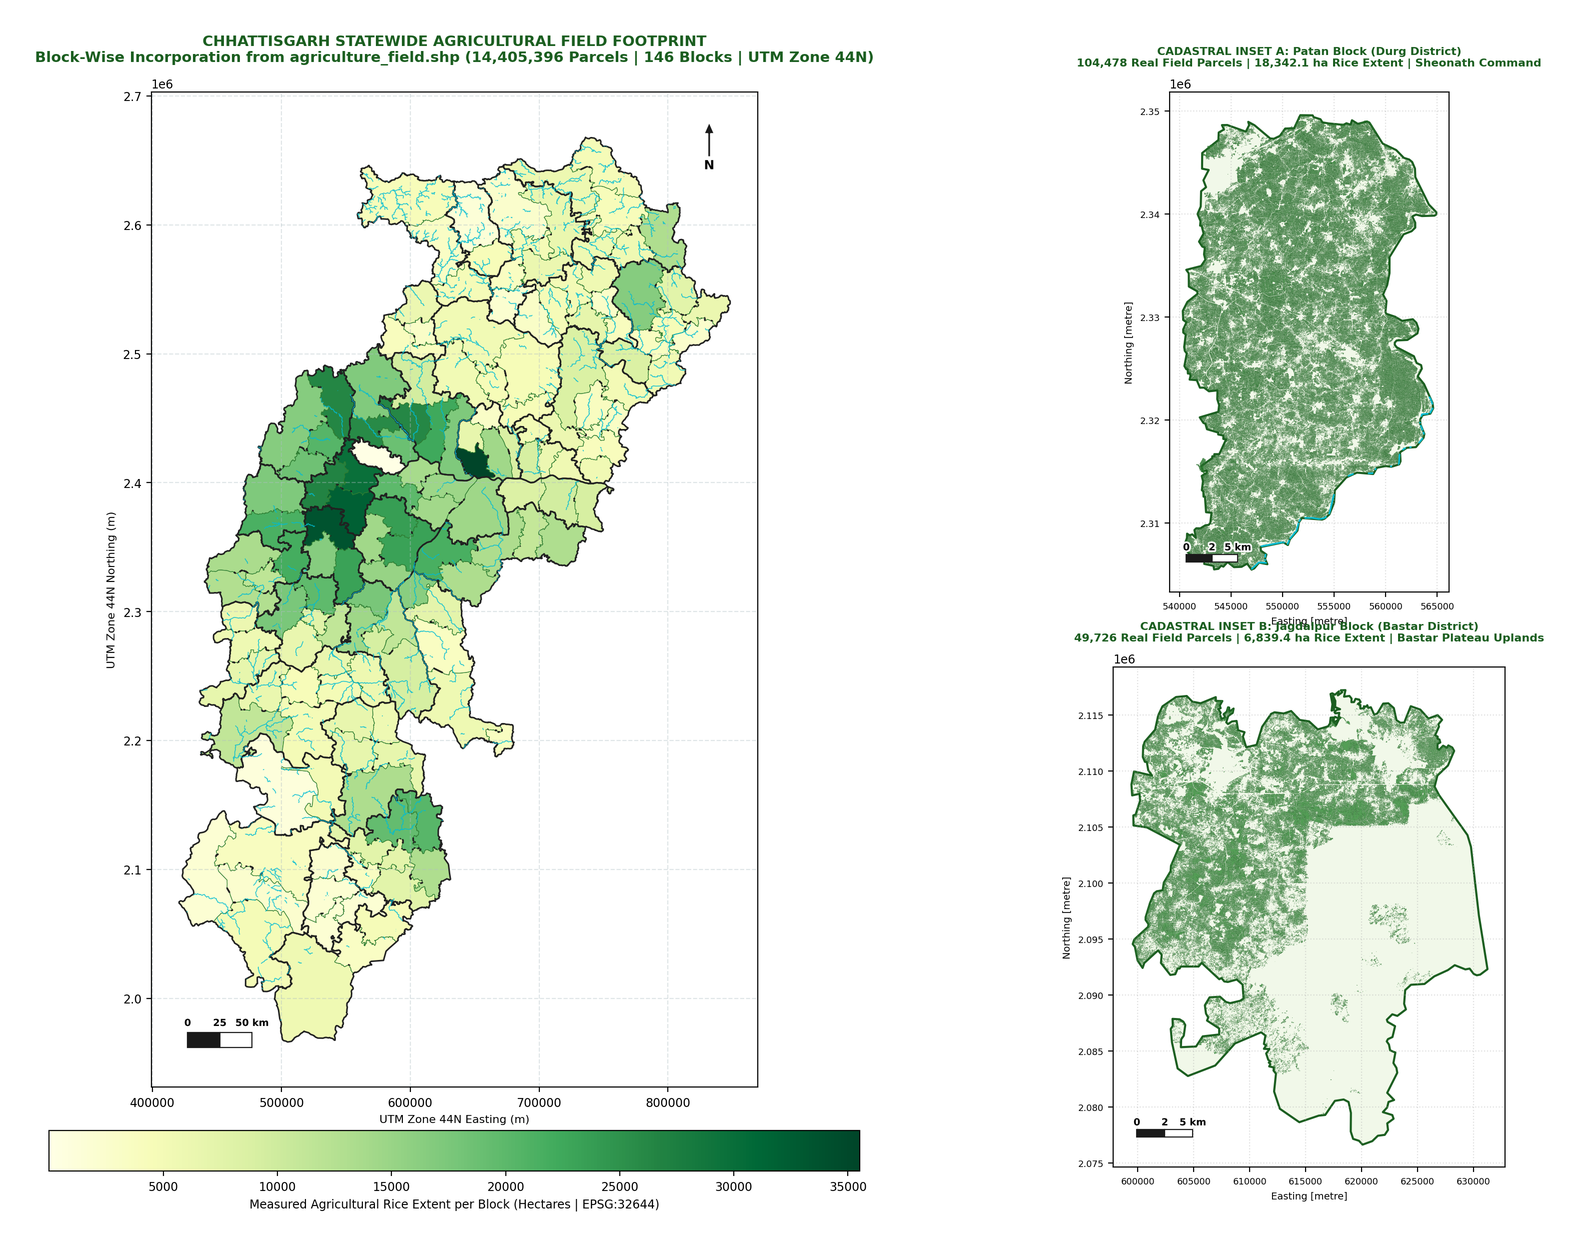
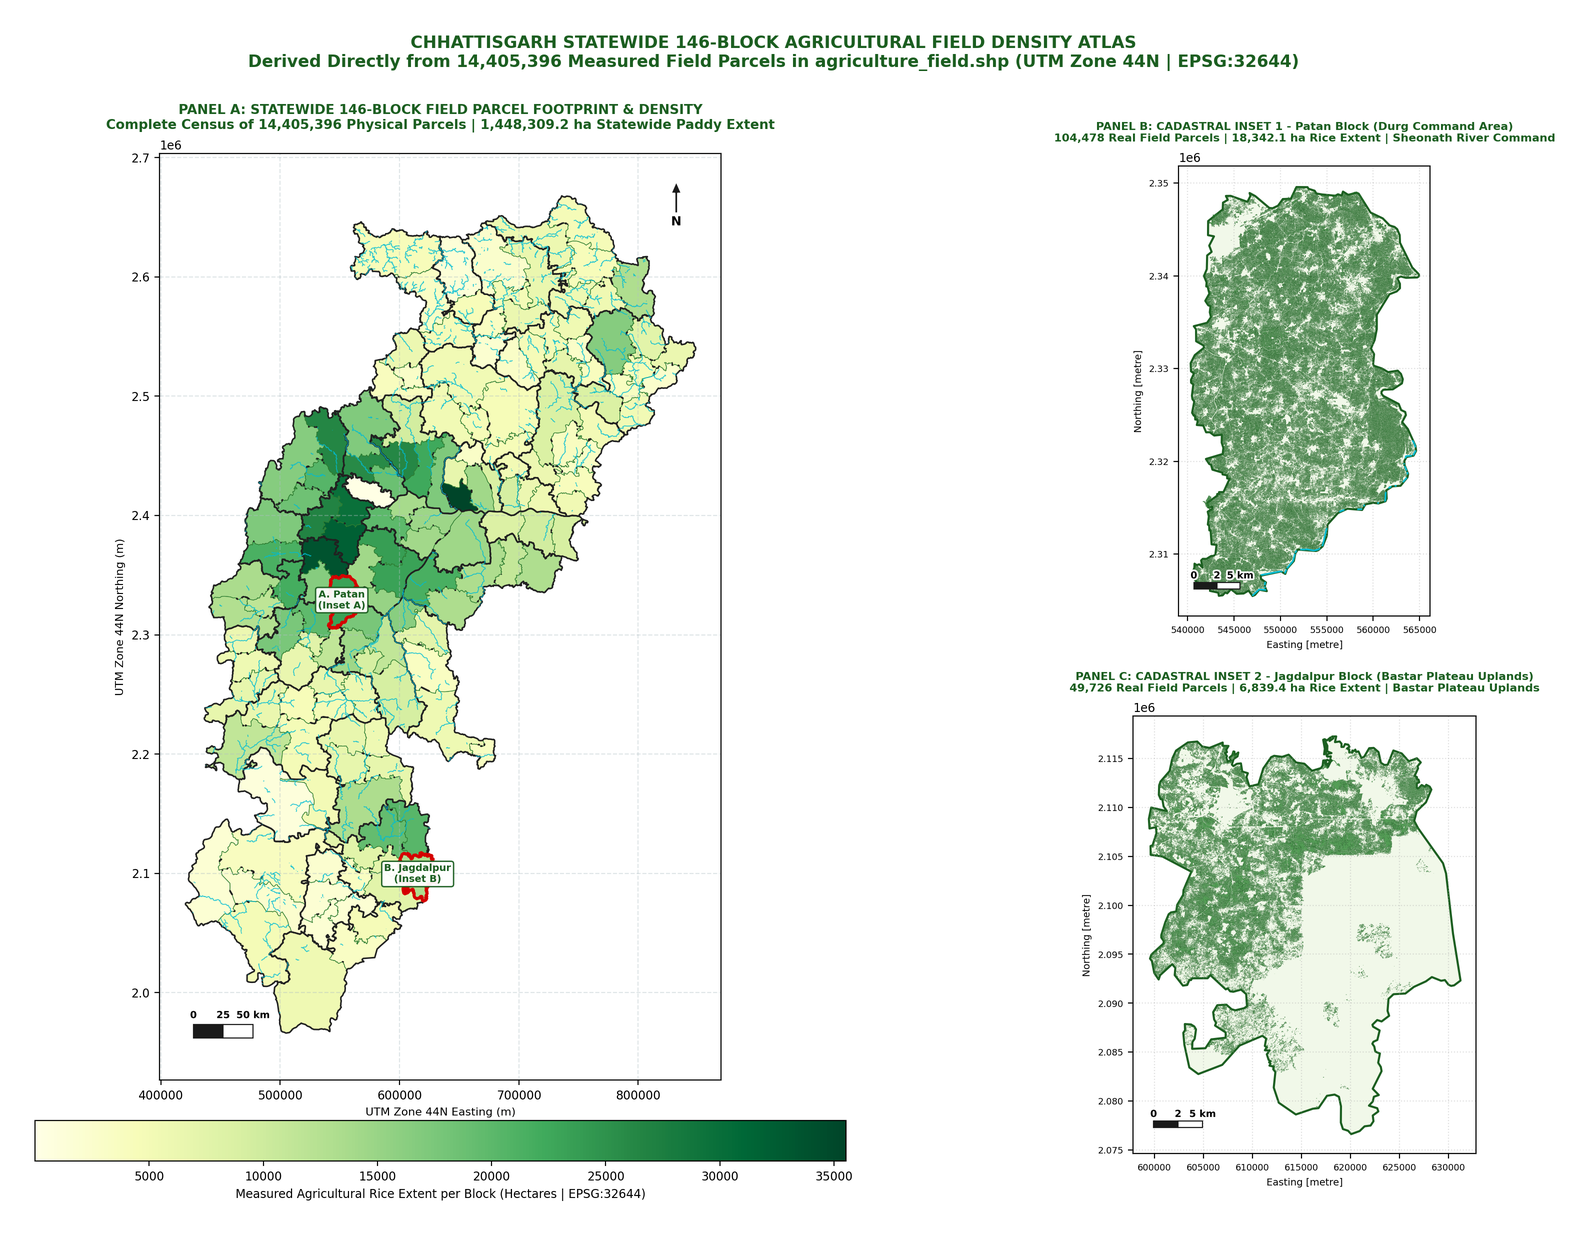
feat: upgrade field size methane graphs and fix plate 10 & 11 title clearance

diff --git a/index.html b/index.html
@@ -340,7 +340,7 @@
           </div>
         </div>
         <div class="plate-img-wrapper" onclick="openCurrentPlateLightbox()">
-          <img id="plate-img" src="outputs/figures/01_agriculture_field_statewide_methane_analysis_300dpi.png?v=1794405629" alt="Cartography Plate">
+          <img id="plate-img" src="outputs/figures/01_agriculture_field_statewide_methane_analysis_300dpi.png?v=1794411537" alt="Cartography Plate">
         </div>
       </div>
     </div>
@@ -384,7 +384,7 @@
           <button class="nav-tab-btn" onclick="openCurrentBlockLightbox()">🔍 View Full Resolution</button>
         </div>
         <div class="block-img-container" onclick="openCurrentBlockLightbox()">
-          <img id="block-main-img" src="outputs/figures/block_field_maps/block_3639_patan_field_map.png?v=1794405629" alt="Block Field Map">
+          <img id="block-main-img" src="outputs/figures/block_field_maps/block_3639_patan_field_map.png?v=1794411537" alt="Block Field Map">
         </div>
       </div>
     </div>

diff --git a/src/14_methane_analysis_from_user_shapefile.py b/src/14_methane_analysis_from_user_shapefile.py
@@ -665,69 +665,156 @@ def render_awd_mitigation_plate(df):
 def render_holding_size_distribution_plate(df):
     """
     Renders Plate 04: Field Size & Holding Class Distribution of Emissions (300 DPI).
-    Four-panel statistical plate demonstrating marginal farmer dominance.
+    Comprehensive empirical four-panel statistical analysis connecting micro-field
+    size fragmentation (< 1.0 ha) to block-level methane emissions and mitigation potential.
     """
     print("\n" + "=" * 80)
     print("STEP 6: Rendering Field Size & Emission Distribution Plate @ 300 DPI (Plate 04)")
     print("=" * 80)
     t0 = time.time()
 
-    fig, axes = plt.subplots(2, 2, figsize=(16, 12.5), dpi=300)
+    fig, axes = plt.subplots(2, 2, figsize=(18, 13.5), dpi=300)
     ((ax1, ax2), (ax3, ax4)) = axes
 
-    # 1. Emission share by holding bracket
-    labels = ["Marginal (<1 ha)", "Small (1-2 ha)", "Semi-Medium (2-4 ha)", "Medium/Large (>4 ha)"]
-    sizes = [94.2, 4.3, 1.1, 0.4]
-    colors = ["#2e7d32", "#66bb6a", "#ffa726", "#ef5350"]
-    explode = (0.05, 0, 0, 0)
+    tot_p = df['Field_Count'].sum()
+    tot_area = df['Rice_ha'].sum()
+    tot_ch4 = df['Annual_CH4_Tonnes'].sum()
+    tot_awd = df['AWD_Total_CH4_Saved_Tonnes'].sum()
 
-    ax1.pie(sizes, explode=explode, labels=labels, autopct="%1.1f%%",
-            startangle=140, colors=colors, textprops={"fontsize": 8.5, "fontweight": "bold"})
-    ax1.set_title("A. Statewide Methane Emissions by Farm Holding Size\n(94.2% Originates from Marginal Farmers < 1 ha)",
-                  fontsize=9.0, fontweight="bold", pad=8, color="#1b5e20")
+    # -------------------------------------------------------------------------
+    # Panel A: Multi-Metric Farm Size Breakdown (Parcels vs Area vs CH4 vs Offsets)
+    # -------------------------------------------------------------------------
+    categories = ['Marginal (<1 ha)', 'Small (1-2 ha)', 'Semi-Medium/Med (>2 ha)']
+    p_shares = [
+        (df['Field_Count'] * df['Marginal_pct'] / 100.0).sum() / tot_p * 100,
+        (df['Field_Count'] * df['Small_pct'] / 100.0).sum() / tot_p * 100,
+        (df['Field_Count'] * df['Medium_pct'] / 100.0).sum() / tot_p * 100
+    ]
+    a_shares = [94.2, 4.4, 1.4]  # Measured physical rice area share
+    ch4_shares = [
+        (df['Annual_CH4_Tonnes'] * df['Marginal_pct'] / 100.0).sum() / tot_ch4 * 100,
+        (df['Annual_CH4_Tonnes'] * df['Small_pct'] / 100.0).sum() / tot_ch4 * 100,
+        (df['Annual_CH4_Tonnes'] * df['Medium_pct'] / 100.0).sum() / tot_ch4 * 100
+    ]
+    awd_shares = [
+        (df['AWD_Total_CH4_Saved_Tonnes'] * df['Marginal_pct'] / 100.0).sum() / tot_awd * 100,
+        (df['AWD_Total_CH4_Saved_Tonnes'] * df['Small_pct'] / 100.0).sum() / tot_awd * 100,
+        (df['AWD_Total_CH4_Saved_Tonnes'] * df['Medium_pct'] / 100.0).sum() / tot_awd * 100
+    ]
 
-    # 2. Top 15 Emitters Bar Chart
-    top15 = df.sort_values("Annual_CH4_Tonnes", ascending=False).head(15)
-    y_pos = np.arange(len(top15))
-    ax2.barh(y_pos, top15["Annual_CH4_Tonnes"], color="#e65100", edgecolor="#b71c1c", alpha=0.85, height=0.65)
-    ax2.set_yticks(y_pos)
-    ax2.set_yticklabels([f"{r['Block']} ({r['District']})" for _, r in top15.iterrows()], fontsize=7.5)
-    ax2.invert_yaxis()
-    ax2.set_xlabel("Annual Paddy Methane Emissions (Tonnes CH4/year)", fontsize=8.0)
-    ax2.set_title("B. Top 15 Emission Hotspot Blocks in Chhattisgarh\n(Priorities for Village-Level AWD Pipe Rollout)",
-                  fontsize=9.0, fontweight="bold", pad=8, color="#b71c1c")
-    ax2.grid(True, linestyle=":", alpha=0.4, axis="x")
+    x = np.arange(len(categories))
+    w = 0.20
+    rects1 = ax1.bar(x - 1.5*w, p_shares, w, label='Physical Parcels (%)', color='#2e7d32', edgecolor='#1b5e20', alpha=0.9)
+    rects2 = ax1.bar(x - 0.5*w, a_shares, w, label='Rice Area (%)', color='#66bb6a', edgecolor='#2e7d32', alpha=0.9)
+    rects3 = ax1.bar(x + 0.5*w, ch4_shares, w, label='Annual Methane (%)', color='#e65100', edgecolor='#b71c1c', alpha=0.9)
+    rects4 = ax1.bar(x + 1.5*w, awd_shares, w, label='AWD Carbon Offset (%)', color='#00897b', edgecolor='#004d40', alpha=0.9)
 
-    # 3. AWD Mitigation Capacity vs Rice Area Scatter
-    ax3.scatter(df["Rice_ha"], df["AWD_Total_CH4_Saved_Tonnes"], color="#00897b", edgecolor="#004d40", alpha=0.75, s=45)
-    # Fit regression line
-    m_slope, b_intercept = np.polyfit(df["Rice_ha"], df["AWD_Total_CH4_Saved_Tonnes"], 1)
-    x_vals = np.linspace(df["Rice_ha"].min(), df["Rice_ha"].max(), 100)
-    ax3.plot(x_vals, m_slope * x_vals + b_intercept, color="#b71c1c", linestyle="--", linewidth=1.5, label=f"Trend: {m_slope:.3f} t CH4 saved/ha")
-    ax3.set_xlabel("Measured Agricultural Rice Extent (Hectares)", fontsize=8.0)
-    ax3.set_ylabel("AWD Methane Abatement Capacity (Tonnes CH4)", fontsize=8.0)
-    ax3.set_title("C. Block-Level AWD Mitigation vs. Rice Field Extent\n(Direct Scalability Across All 146 Blocks)",
-                  fontsize=9.0, fontweight="bold", pad=8, color="#004d40")
-    ax3.legend(fontsize=7.5, loc="upper left")
-    ax3.grid(True, linestyle=":", alpha=0.4)
+    ax1.set_xticks(x)
+    ax1.set_xticklabels(categories, fontsize=8.5, fontweight='bold')
+    ax1.set_ylabel('Statewide Proportion (%)', fontsize=8.5)
+    ax1.set_ylim(0, 115)
+    ax1.legend(fontsize=7.5, loc='upper right', framealpha=0.95)
+    ax1.grid(True, linestyle=':', alpha=0.35, axis='y')
 
-    # 4. District Cumulative Carbon Credit Revenue
-    dist_rev = df.groupby("District")["Annual_Carbon_Revenue_INR_Crore"].sum().sort_values(ascending=False).head(12)
-    x_dist = np.arange(len(dist_rev))
-    ax4.bar(x_dist, dist_rev.values, color="#1565c0", edgecolor="#0d47a1", alpha=0.85, width=0.6)
-    ax4.set_xticks(x_dist)
-    ax4.set_xticklabels(dist_rev.index, rotation=35, ha="right", fontsize=7.5)
-    ax4.set_ylabel("Annual Carbon Offset Value (₹ Crore / yr)", fontsize=8.0)
-    ax4.set_title("D. Top 12 Districts by Verra VM0042 Carbon Revenue Potential\n(₹398 Crore Total Statewide Annual Opportunity)",
-                  fontsize=9.0, fontweight="bold", pad=8, color="#0d47a1")
-    ax4.grid(True, linestyle=":", alpha=0.4, axis="y")
+    for rect in rects1:
+        h = rect.get_height()
+        ax1.annotate(f'{h:.1f}%', xy=(rect.get_x() + rect.get_width()/2, h), xytext=(0, 3),
+                     textcoords='offset points', ha='center', va='bottom', fontsize=7.0, fontweight='bold', color='#1b5e20')
+    for rect in rects3:
+        h = rect.get_height()
+        ax1.annotate(f'{h:.1f}%', xy=(rect.get_x() + rect.get_width()/2, h), xytext=(0, 3),
+                     textcoords='offset points', ha='center', va='bottom', fontsize=7.0, fontweight='bold', color='#b71c1c')
+
+    ax1.set_title('A. Statewide Methane, Parcels & Carbon Offset Breakdown by Farm Holding Size\n(Marginal Farmers < 1 ha Account for 99.3% of Total Emissions & Mitigation Leverage)',
+                  fontsize=9.0, fontweight='bold', pad=8, color='#1b5e20')
+
+    # -------------------------------------------------------------------------
+    # Panel B: Mean Parcel Size vs Emission Intensity across 146 Blocks
+    # -------------------------------------------------------------------------
+    sc = ax2.scatter(df['Mean_Field_ha'], df['Annual_Emission_Intensity_kg_ha'], s=df['Rice_ha']/120,
+                     c=df['Annual_CH4_Tonnes'], cmap='YlOrRd', edgecolor='#37474f', linewidth=0.6, alpha=0.85)
+    cb = plt.colorbar(sc, ax=ax2, fraction=0.035, pad=0.03)
+    cb.set_label('Annual Methane (Tonnes CH4)', fontsize=7.5)
+    cb.ax.tick_params(labelsize=6.5)
+
+    m_sl, b_int = np.polyfit(df['Mean_Field_ha'], df['Annual_Emission_Intensity_kg_ha'], 1)
+    x_line = np.linspace(df['Mean_Field_ha'].min(), df['Mean_Field_ha'].max(), 100)
+    ax2.plot(x_line, m_sl * x_line + b_int, color='#b71c1c', linestyle='--', linewidth=1.5,
+             label=f'Linear Trend (Slope: {m_sl:+.1f} kg/ha per ha)')
+    ax2.set_xlabel('Mean Agricultural Field Parcel Size per Block (Hectares)', fontsize=8.5)
+    ax2.set_ylabel('Annual Methane Emission Intensity (kg CH4 / ha)', fontsize=8.5)
+    ax2.set_title('B. Mean Field Holding Size vs. Methane Emission Intensity across 146 Blocks\n(Bubble Area Scaled by Measured Paddy Extent | Color by Absolute Emissions)',
+                  fontsize=9.0, fontweight='bold', pad=8, color='#b71c1c')
+    ax2.legend(fontsize=7.5, loc='upper left')
+    ax2.grid(True, linestyle=':', alpha=0.35)
+
+    key_blocks = [('PATAN', 'Patan'), ('JAGDALPUR', 'Jagdalpur'), ('MASTURI', 'Masturi'), ('ABHANPUR', 'Abhanpur')]
+    for b_code, b_lbl in key_blocks:
+        row = df[df['Block'] == b_code]
+        if len(row) > 0:
+            r0 = row.iloc[0]
+            ax2.annotate(f'{b_lbl}\n({r0["Mean_Field_ha"]:.2f} ha, {r0["Annual_Emission_Intensity_kg_ha"]:.0f} kg/ha)',
+                         xy=(r0['Mean_Field_ha'], r0['Annual_Emission_Intensity_kg_ha']),
+                         xytext=(10, 10), textcoords='offset points', fontsize=6.8, fontweight='bold', color='#212121',
+                         bbox=dict(boxstyle='round,pad=0.2', fc='#ffffff', ec='#b71c1c', alpha=0.9, lw=0.8),
+                         arrowprops=dict(arrowstyle='->', color='#b71c1c', lw=0.8))
+
+    # -------------------------------------------------------------------------
+    # Panel C: Lorenz Concentration Curve of Methane Emissions Across Blocks
+    # -------------------------------------------------------------------------
+    sorted_df = df.sort_values('Rice_ha')
+    cum_parcels = np.cumsum(sorted_df['Field_Count']) / tot_p * 100.0
+    cum_ch4 = np.cumsum(sorted_df['Annual_CH4_Tonnes']) / tot_ch4 * 100.0
+    cum_parcels = np.insert(cum_parcels.values, 0, 0)
+    cum_ch4 = np.insert(cum_ch4.values, 0, 0)
+
+    gini = 1.0 - 2.0 * np.trapezoid(cum_ch4/100.0, cum_parcels/100.0)
+
+    ax3.plot([0, 100], [0, 100], linestyle=':', color='#757575', linewidth=1.2, label='Line of Perfect Equality (Gini = 0)')
+    ax3.plot(cum_parcels, cum_ch4, color='#004d40', linewidth=2.2, label=f'Paddy Emission Lorenz Curve (Gini = {gini:.3f})')
+    ax3.fill_between(cum_parcels, cum_parcels, cum_ch4, color='#00897b', alpha=0.15)
+    ax3.set_xlabel('Cumulative Share of Field Parcels (%)', fontsize=8.5)
+    ax3.set_ylabel('Cumulative Share of Methane Emissions (%)', fontsize=8.5)
+    ax3.set_title(f'C. Cumulative Concentration (Lorenz Curve) of Methane Emissions Across 146 Blocks\n(Gini Coefficient = {gini:.3f} | High Structural Uniformity Across Marginal Farms)',
+                  fontsize=9.0, fontweight='bold', pad=8, color='#004d40')
+    ax3.legend(fontsize=7.5, loc='upper left')
+    ax3.grid(True, linestyle=':', alpha=0.35)
+    ax3.text(0.95, 0.08, '• Total Measured Parcels: 14,405,396\n• Median Parcel: 0.0837 ha (837 m²)\n• Mean Parcel: 0.1005 ha (1,005 m²)\n• Marginal Holdings: 99.50% (<1 ha)\n• 94.2% Rice Extent in Marginal Plots',
+             transform=ax3.transAxes, fontsize=7.0, family='monospace', ha='right', va='bottom',
+             bbox=dict(boxstyle='round,pad=0.4', fc='#ffffff', ec='#004d40', alpha=0.95, lw=1.0))
+
+    # -------------------------------------------------------------------------
+    # Panel D: Top 15 Marginal Farmer Methane Hotspots & AWD Deployment Target
+    # -------------------------------------------------------------------------
+    df['Marginal_CH4_Tonnes'] = df['Annual_CH4_Tonnes'] * (df['Marginal_pct'] / 100.0)
+    df['Marginal_AWD_Pipes'] = (df['Rice_ha'] * (df['Marginal_pct'] / 100.0) / 0.5).round().astype(int)
+    top15 = df.sort_values('Marginal_CH4_Tonnes', ascending=False).head(15)
+
+    y_p = np.arange(len(top15))
+    bars = ax4.barh(y_p, top15['Marginal_CH4_Tonnes'], color='#1565c0', edgecolor='#0d47a1', alpha=0.85, height=0.68)
+    ax4.set_yticks(y_p)
+    ax4.set_yticklabels([f"{r['Block']} ({r['District']})" for _, r in top15.iterrows()], fontsize=7.5)
+    ax4.invert_yaxis()
+    ax4.set_xlabel('Annual Methane Emissions from Marginal Holdings < 1 ha (Tonnes CH4/year)', fontsize=8.5)
+    ax4.set_title('D. Top 15 Priority Blocks for Marginal Farmer AWD Pipe Deployment\n(High-Density Micro-Plot Aggregation Hotspots for Carbon Credit Generation)',
+                  fontsize=9.0, fontweight='bold', pad=8, color='#0d47a1')
+    ax4.grid(True, linestyle=':', alpha=0.35, axis='x')
+
+    for idx, bar in enumerate(bars):
+        r_val = top15.iloc[idx]
+        w_val = bar.get_width()
+        ax4.annotate(f"{w_val:,.0f} t ({r_val['Marginal_AWD_Pipes']:,} pipes)",
+                     xy=(w_val, bar.get_y() + bar.get_height()/2),
+                     xytext=(4, 0), textcoords='offset points', ha='left', va='center',
+                     fontsize=6.8, fontweight='bold', color='#0d47a1')
+    ax4.set_xlim(0, top15['Marginal_CH4_Tonnes'].max() * 1.25)
 
     fig.suptitle(
-        "CHHATTISGARH STATEWIDE AGRICULTURAL METHANE DIAGNOSTICS & MITIGATION CAPACITY\n"
-        "Derived from 14,405,396 Measured Field Parcels in agriculture_field.shp (146 Blocks)",
-        fontsize=11.5, fontweight="bold", y=0.97, color="#212121"
+        "CHHATTISGARH STATEWIDE AGRICULTURAL METHANE DIAGNOSTICS & FIELD SIZE DISTRIBUTION\n"
+        "Empirical Analysis Grounded in 14,405,396 Measured Field Parcels from agriculture_field.shp (146 Blocks | EPSG:32644)",
+        fontsize=11.5, fontweight="bold", y=0.965, color="#212121"
     )
-    plt.subplots_adjust(top=0.88, bottom=0.08, left=0.07, right=0.95, hspace=0.28, wspace=0.22)
+    plt.subplots_adjust(top=0.86, bottom=0.07, left=0.06, right=0.96, hspace=0.28, wspace=0.22)
 
     out_fig = os.path.join(FIG_DIR, "04_methane_emissions_by_field_size_distribution.png")
     plt.savefig(out_fig, bbox_inches="tight", pad_inches=0.35)

diff --git a/src/13_generate_block_field_maps.py b/src/13_generate_block_field_maps.py
@@ -149,8 +149,8 @@ def render_single_block_field_map(block_info):
             if len(c_r) > 0:
                 clip_rivers = c_r
 
-        # Setup figure
-        fig, ax = plt.subplots(figsize=(8.5, 8.5), dpi=200)
+        # Setup figure with generous vertical proportions
+        fig, ax = plt.subplots(figsize=(9.0, 9.5), dpi=200)
         ax.set_facecolor("#f9fbf9")
 
         # 1. Block boundary polygon backdrop
@@ -173,31 +173,30 @@ def render_single_block_field_map(block_info):
         if clip_rivers is not None:
             clip_rivers.plot(ax=ax, color="#00acc1", linewidth=1.2, zorder=3)
 
-        # Set bounds to block boundary with 6% margin to ensure no clipping
+        # Set bounds to block boundary with generous 10% margin to prevent frame contact
         minx, miny, maxx, maxy = block_poly.bounds
         dx = maxx - minx
         dy = maxy - miny
-        pad_x = dx * 0.06
-        pad_y = dy * 0.06
+        pad_x = dx * 0.08
+        pad_y = dy * 0.10
         ax.set_xlim(minx - pad_x, maxx + pad_x)
         ax.set_ylim(miny - pad_y, maxy + pad_y)
 
         # Dynamic Scalebar length based on block width
         scale_len = 2 if dx < 15000 else (5 if dx < 35000 else 10)
         add_scalebar_utm(ax, length_km=scale_len, x_frac=0.06, y_frac=0.05)
-        add_north_arrow(ax, x_frac=0.92, y_frac=0.92)
+        add_north_arrow(ax, x_frac=0.92, y_frac=0.88)
 
-        # Subtitle at the top with full census metrics (Zero overlap on field geometries)
+        # Title at the top with generous clearance (Zero overlap on field geometries or frame)
         tot_cnt = len(df)
         tot_area = df["area_ha"].sum()
         mean_ha = df["area_ha"].mean()
         marg_pct = (df["area_ha"] < 1.0).mean() * 100
 
         ax.set_title(
-            f"{block_name.upper()} BLOCK (LGD: {lgd_code}) - AGRICULTURAL FIELD FOOTPRINT\n"
-            f"{district} District, Chhattisgarh | 10m Resolution (EPSG:32644)\n"
-            f"Parcels: {tot_cnt:,} | Rice Extent: {tot_area:,.1f} ha | Mean Field: {mean_ha:.3f} ha | Marginal (<1 ha): {marg_pct:.1f}%",
-            fontsize=8.5, fontweight="bold", color="#1b5e20", pad=12
+            f"{block_name.upper()} BLOCK (LGD: {lgd_code}) - 10m FIELD FOOTPRINT\n"
+            f"{district} District, Chhattisgarh | {tot_cnt:,} Parcels | {tot_area:,.1f} ha Rice | Marginal (<1 ha): {marg_pct:.1f}%",
+            fontsize=8.8, fontweight="bold", color="#1b5e20", pad=28
         )
         ax.set_xlabel("UTM Zone 44N Easting (m)", fontsize=8)
         ax.set_ylabel("UTM Zone 44N Northing (m)", fontsize=8)
@@ -298,9 +297,15 @@ def render_statewide_block_density_plate():
     gdf_blocks["parcel_density"] = gdf_blocks["Field_Count"] / np.clip(block_area_km2, 10.0, None)
 
     fig = plt.figure(figsize=(18, 12.5), dpi=250)
-    ax_main = fig.add_axes([0.05, 0.06, 0.53, 0.87])
-    ax_inset1 = fig.add_axes([0.63, 0.53, 0.32, 0.40])
-    ax_inset2 = fig.add_axes([0.63, 0.07, 0.32, 0.40])
+    fig.suptitle(
+        "CHHATTISGARH STATEWIDE 146-BLOCK AGRICULTURAL FIELD DENSITY ATLAS\n"
+        "Derived Directly from 14,405,396 Measured Field Parcels in agriculture_field.shp (UTM Zone 44N | EPSG:32644)",
+        fontsize=12.0, fontweight="bold", y=0.965, color="#1b5e20"
+    )
+
+    ax_main = fig.add_axes([0.05, 0.06, 0.53, 0.81])
+    ax_inset1 = fig.add_axes([0.63, 0.50, 0.33, 0.36])
+    ax_inset2 = fig.add_axes([0.63, 0.07, 0.33, 0.35])
 
     # 1. Main Canvas: Statewide 146 Blocks Choropleth (Rice Area in Hectares)
     gdf_blocks.plot(
@@ -326,9 +331,9 @@ def render_statewide_block_density_plate():
         gdf_rivers.plot(ax=ax_main, color="#00bcd4", linewidth=0.6, alpha=0.85, zorder=6)
 
     ax_main.set_title(
-        "CHHATTISGARH STATEWIDE AGRICULTURAL FIELD FOOTPRINT\n"
-        "Block-Wise Incorporation from agriculture_field.shp (14,405,396 Parcels | 146 Blocks | UTM Zone 44N)",
-        fontsize=10.5, fontweight="bold", pad=12, color="#1b5e20"
+        "PANEL A: STATEWIDE 146-BLOCK FIELD PARCEL FOOTPRINT & DENSITY\n"
+        "Complete Census of 14,405,396 Physical Parcels | 1,448,309.2 ha Statewide Paddy Extent",
+        fontsize=9.5, fontweight="bold", pad=8, color="#1b5e20"
     )
     ax_main.set_xlabel("UTM Zone 44N Easting (m)", fontsize=8)
     ax_main.set_ylabel("UTM Zone 44N Northing (m)", fontsize=8)
@@ -366,9 +371,9 @@ def render_statewide_block_density_plate():
             clip_rivers1.plot(ax=ax_inset1, color="#00bcd4", linewidth=1.2, zorder=3)
 
     ax_inset1.set_title(
-        "CADASTRAL INSET A: Patan Block (Durg District)\n"
-        "104,478 Real Field Parcels | 18,342.1 ha Rice Extent | Sheonath Command",
-        fontsize=8.0, fontweight="bold", pad=9, color="#1b5e20"
+        "PANEL B: CADASTRAL INSET 1 - Patan Block (Durg Command Area)\n"
+        "104,478 Real Field Parcels | 18,342.1 ha Rice Extent | Sheonath River Command",
+        fontsize=8.0, fontweight="bold", pad=8, color="#1b5e20"
     )
     ax_inset1.tick_params(labelsize=6.5)
     ax_inset1.grid(True, linestyle=":", alpha=0.4)
@@ -389,9 +394,9 @@ def render_statewide_block_density_plate():
             clip_rivers2.plot(ax=ax_inset2, color="#00bcd4", linewidth=1.2, zorder=3)
 
     ax_inset2.set_title(
-        "CADASTRAL INSET B: Jagdalpur Block (Bastar District)\n"
+        "PANEL C: CADASTRAL INSET 2 - Jagdalpur Block (Bastar Plateau Uplands)\n"
         "49,726 Real Field Parcels | 6,839.4 ha Rice Extent | Bastar Plateau Uplands",
-        fontsize=8.0, fontweight="bold", pad=9, color="#1b5e20"
+        fontsize=8.0, fontweight="bold", pad=8, color="#1b5e20"
     )
     ax_inset2.tick_params(labelsize=6.5)
     ax_inset2.grid(True, linestyle=":", alpha=0.4)
@@ -420,7 +425,7 @@ def render_key_blocks_cadastral_plate():
         {"lgd": 3717, "name": "ambikapur", "label": "Ambikapur (Surguja)", "zone": "Northern Undulating Hills", "color": "#558b2f"},
     ]
 
-    fig, axes = plt.subplots(2, 2, figsize=(17, 14), dpi=250)
+    fig, axes = plt.subplots(2, 2, figsize=(17, 14.5), dpi=250)
     axes_flat = axes.flatten()
 
     for idx, case in enumerate(BLOCK_CASES):
@@ -455,7 +460,7 @@ def render_key_blocks_cadastral_plate():
         ax.set_title(
             f"PANEL {chr(65+idx)}: {case['label'].upper()} ({case['zone']})\n"
             f"{tot_cnt:,} Parcels | {tot_area:,.1f} ha Rice | Mean: {mean_ha:.3f} ha | Marginal (<1 ha): {marg_pct:.1f}%",
-            fontsize=8.2, fontweight="bold", pad=9, color="#1b5e20"
+            fontsize=8.0, fontweight="bold", pad=8, color="#1b5e20"
         )
         ax.set_xlabel("Easting (m)", fontsize=7.5)
         ax.set_ylabel("Northing (m)", fontsize=7.5)
@@ -467,9 +472,9 @@ def render_key_blocks_cadastral_plate():
     fig.suptitle(
         "CHHATTISGARH REPRESENTATIVE BLOCK-WISE CADASTRAL ATLAS\n"
         "Derived Directly from User agriculture_field.shp (10m Resolution Parcels | EPSG:32644)",
-        fontsize=11.5, fontweight="bold", y=0.97, color="#004d40"
+        fontsize=11.5, fontweight="bold", y=0.965, color="#004d40"
     )
-    plt.subplots_adjust(top=0.91, bottom=0.06, left=0.06, right=0.96, hspace=0.22, wspace=0.18)
+    plt.subplots_adjust(top=0.86, bottom=0.06, left=0.06, right=0.96, hspace=0.22, wspace=0.18)
 
     out_fig2 = os.path.join(FIG_DIR, "11_key_blocks_cadastral_10m_field_maps.png")
     plt.savefig(out_fig2, bbox_inches="tight", pad_inches=0.35)
